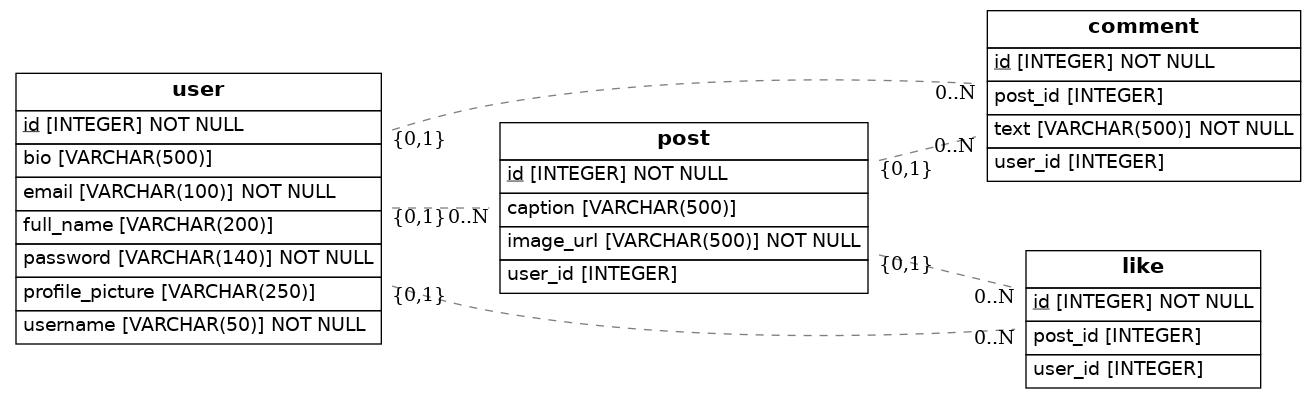
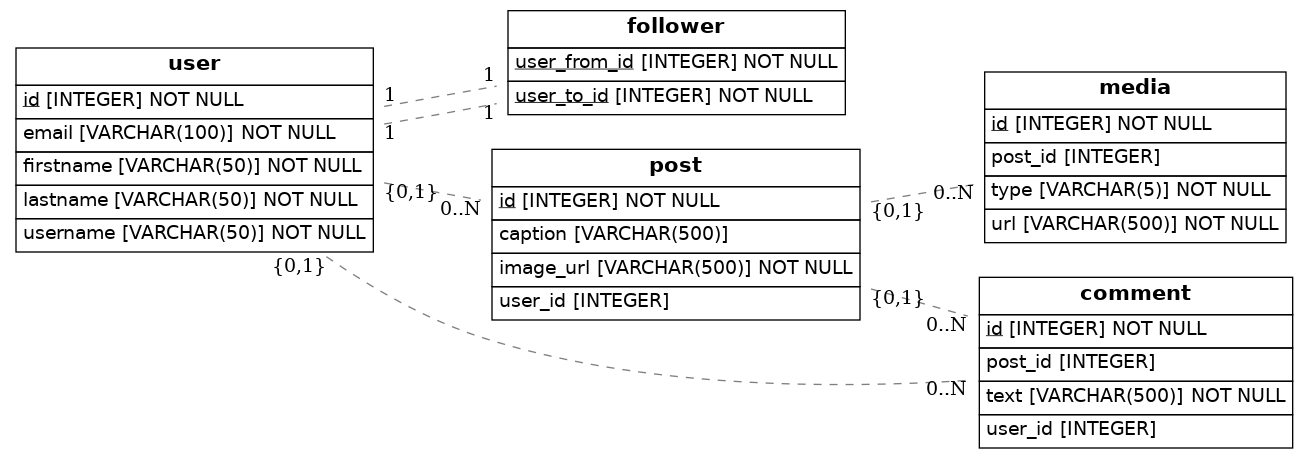
correciones hechas

diff --git a/src/models.py b/src/models.py
@@ -1,11 +1,19 @@
 import os
 import sys
-from sqlalchemy import Column, ForeignKey, Integer, String
+from sqlalchemy import Column, ForeignKey, Integer, String, Enum
 from sqlalchemy.orm import relationship, declarative_base
 from sqlalchemy import create_engine
 from eralchemy2 import render_er
 
 Base = declarative_base()
+
+class Follower(Base):
+    __tablename__ = 'follower'
+    # Here we define columns for the table person
+    # Notice that each column is also a normal Python instance attribute.
+    user_from_id = Column(Integer, ForeignKey('user.id'), primary_key=True)
+    user_to_id = Column(Integer, ForeignKey('user.id'), primary_key=True)
+    
 
 class User(Base):
     __tablename__ = 'user'
@@ -13,14 +21,14 @@ class User(Base):
     # Notice that each column is also a normal Python instance attribute.
     id = Column(Integer, primary_key=True)
     username = Column(String(50), unique=True, nullable=False)
+    firstname = Column(String(50), nullable=False)
+    lastname = Column(String(50), nullable=False)
     email = Column(String(100), unique=True, nullable=False)
-    password = Column(String(140), nullable=False)
-    full_name = Column(String(200))
-    profile_picture = Column(String(250))
-    bio = Column(String(500))
     posts = relationship('Post', back_populates='author')
     comments = relationship('Comment', back_populates='author')
-    likes = relationship('Like', back_populates='user')
+    followers = relationship('Follower', foreign_keys=[Follower.user_to_id], backref='followed_user')
+    following = relationship('Follower', foreign_keys=[Follower.user_from_id], backref='follower_user')
+    
 
 
 
@@ -34,7 +42,7 @@ class Post(Base):
     caption = Column(String(500))
     author = relationship('User', back_populates='posts')
     comments = relationship('Comment', back_populates='post')
-    likes = relationship('Like', back_populates='post')
+    media = relationship('Media', back_populates='post')
 
 
 class Comment(Base):
@@ -48,15 +56,15 @@ class Comment(Base):
     post = relationship('Post', back_populates='comments')
     author = relationship('User', back_populates='comments')
 
-class Like(Base):
-    __tablename__ = 'like'
+class Media(Base):
+    __tablename__ = 'media'
     # Here we define columns for the table address.
     # Notice that each column is also a normal Python instance attribute.
     id = Column(Integer, primary_key=True)
-    user_id = Column(Integer, ForeignKey('user.id'))
+    type = Column(Enum('image', 'video', 'audio', name='media_types'), nullable=False)
+    url = Column(String(500), nullable=False)
     post_id = Column(Integer, ForeignKey('post.id'))
-    user = relationship('User', back_populates='likes')
-    post = relationship('Post', back_populates='likes')
+    post = relationship('Post', back_populates='media')
 
     
 
